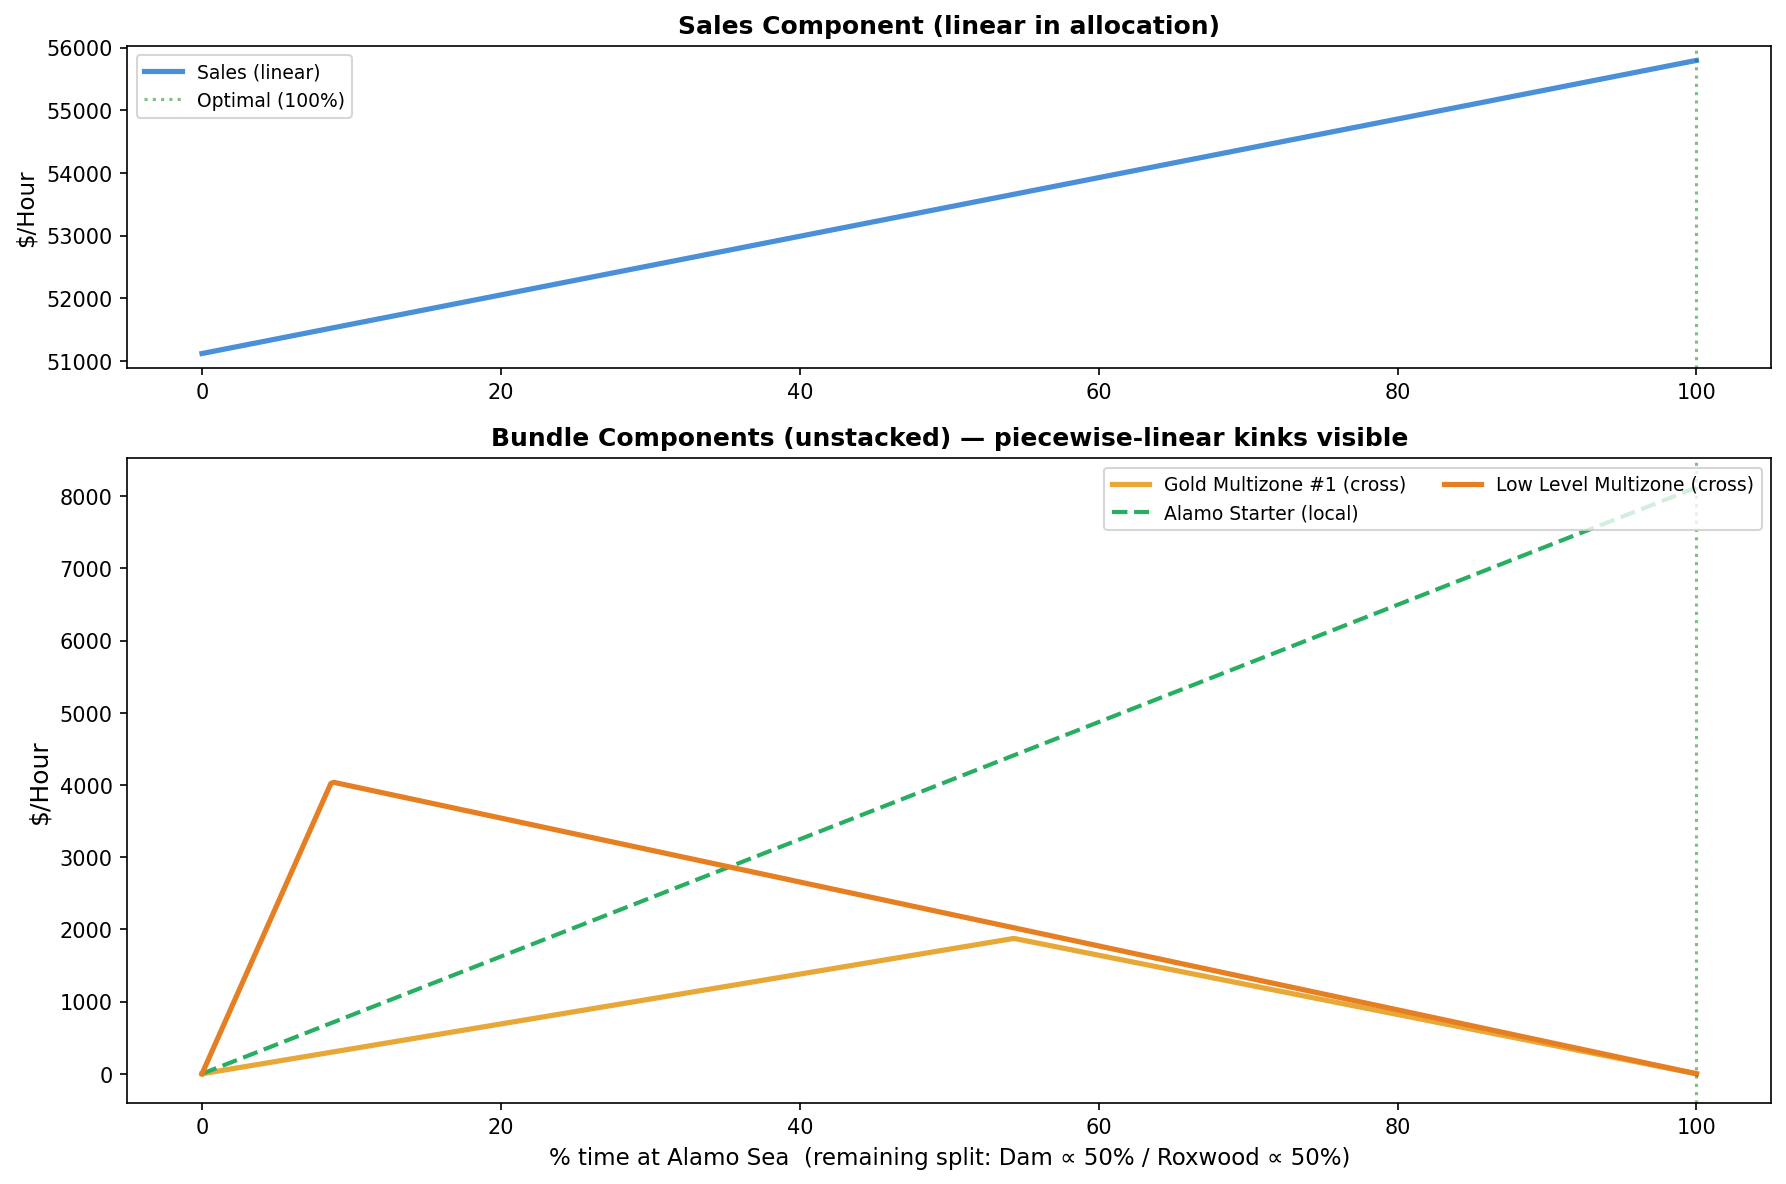
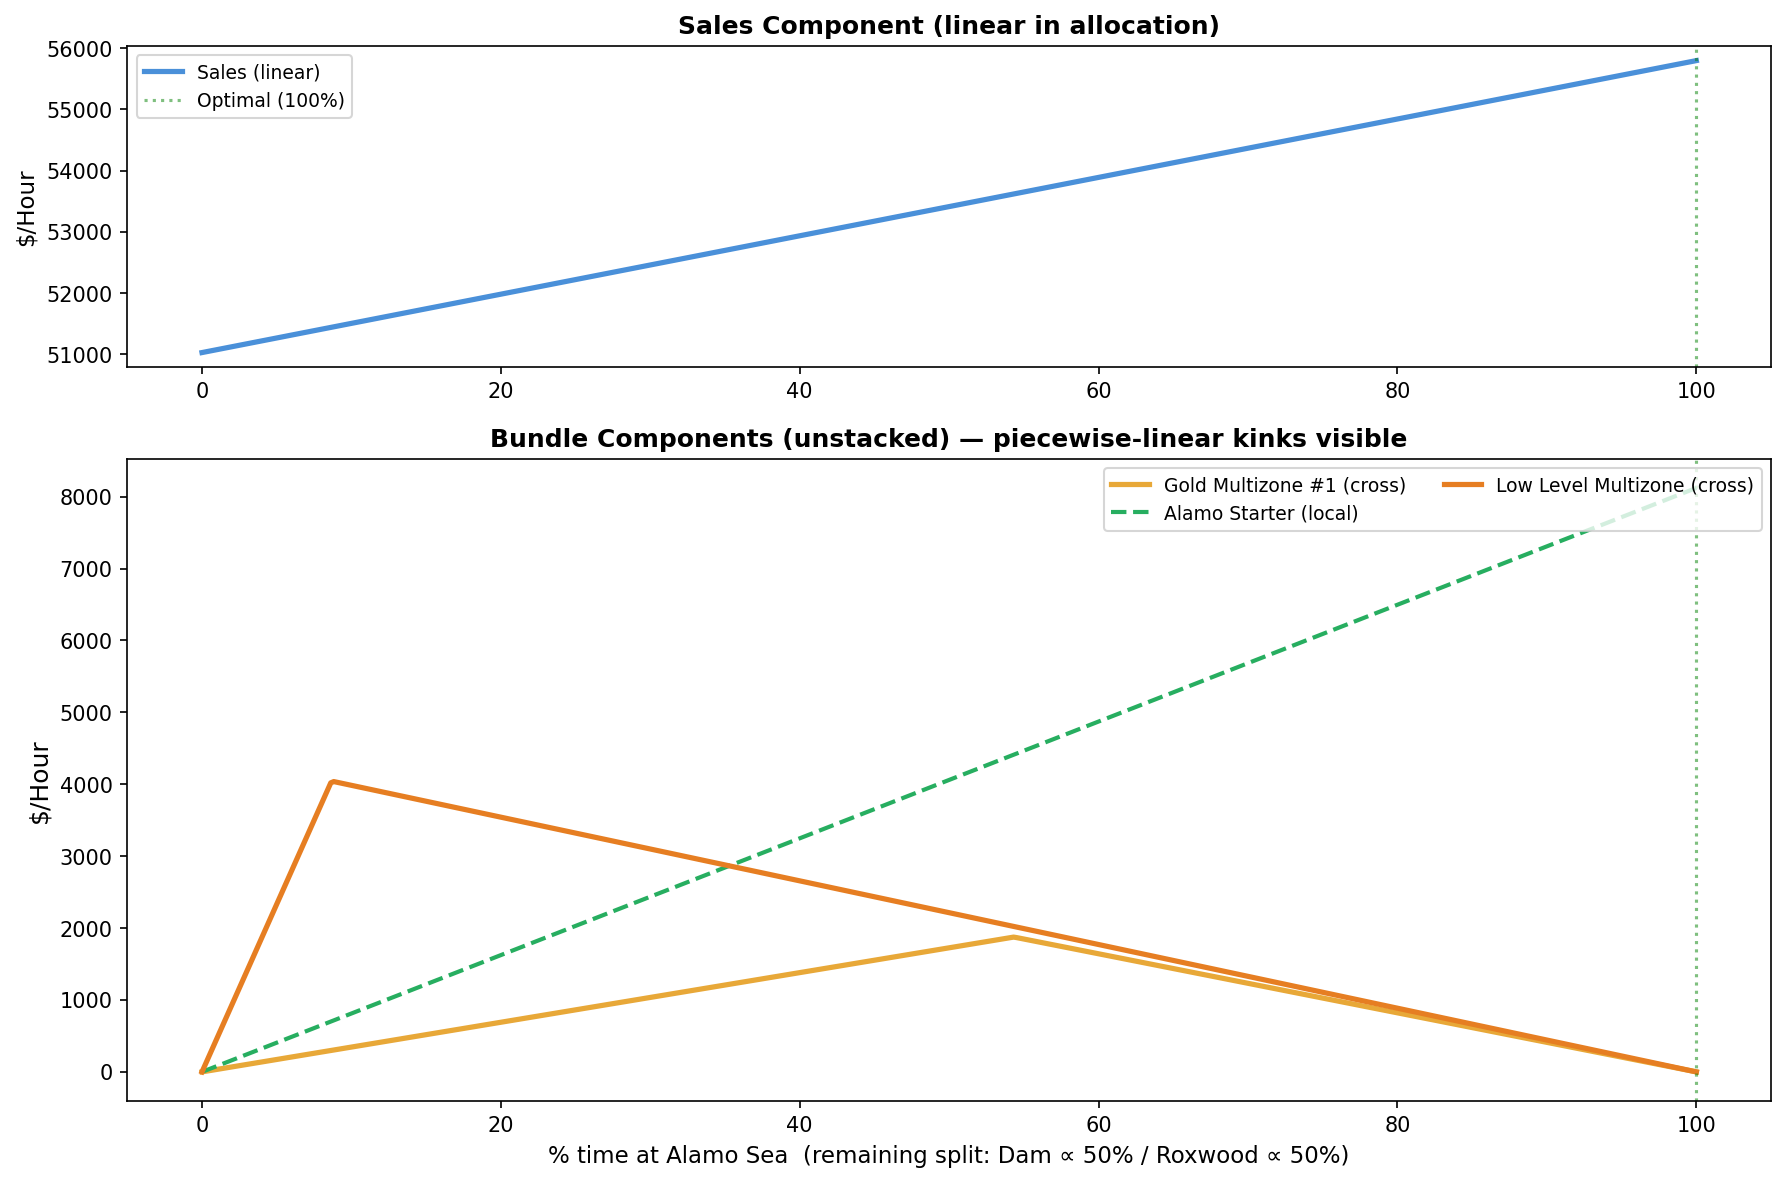
update

diff --git a/sales/update_time.py b/sales/update_time.py
@@ -22,8 +22,8 @@ class Session:
     finish: datetime
     fish_before: int
     fish_after: int
-    electronics_before: int
-    electronics_after: int
+    electronics_before: int | None = None
+    electronics_after: int | None = None
 
     @property
     def duration_seconds(self) -> float:
@@ -35,6 +35,8 @@ class Session:
 
     @property
     def electronics_gained(self) -> int:
+        if self.electronics_before is None or self.electronics_after is None:
+            return 0
         return self.electronics_after - self.electronics_before
 
     @property
@@ -55,56 +57,67 @@ def parse_time_log(path: Path) -> list[Session]:
     text = path.read_text(encoding="utf-8")
     sessions: list[Session] = []
     current_zone = ""
+    pending: dict[str, object] = {}
+
+    def flush() -> None:
+        if "fish_after" in pending:
+            sessions.append(Session(
+                zone=current_zone,
+                rod_level=pending["rod_level"],  # type: ignore[arg-type]
+                start=pending["start"],  # type: ignore[arg-type]
+                finish=pending["finish"],  # type: ignore[arg-type]
+                fish_before=pending["fish_before"],  # type: ignore[arg-type]
+                fish_after=pending["fish_after"],  # type: ignore[arg-type]
+                electronics_before=pending.get("electronics_before"),  # type: ignore[arg-type]
+                electronics_after=pending.get("electronics_after"),  # type: ignore[arg-type]
+            ))
 
     for line in text.splitlines():
         line = line.strip()
 
         zone_match = re.match(r"^#\s+(.+)$", line)
         if zone_match:
+            flush()
+            pending = {}
             current_zone = zone_match.group(1).strip()
             continue
 
         if line == "---":
+            flush()
+            pending = {}
             continue
 
         if line.startswith("Rod Level:"):
-            rod_level = int(line.split(":")[1].strip())
+            flush()
+            pending = {}
+            pending["rod_level"] = int(line.split(":")[1].strip())
             continue
 
         if line.startswith("Start:"):
-            start = datetime.strptime(line.split(":", 1)[1].strip(), DATE_FORMAT)
+            pending["start"] = datetime.strptime(line.split(":", 1)[1].strip(), DATE_FORMAT)
             continue
 
         if line.startswith("Finish:"):
-            finish = datetime.strptime(line.split(":", 1)[1].strip(), DATE_FORMAT)
+            pending["finish"] = datetime.strptime(line.split(":", 1)[1].strip(), DATE_FORMAT)
             continue
 
         if line.startswith("Fish before:"):
-            fish_before = int(line.split(":")[1].strip())
+            pending["fish_before"] = int(line.split(":")[1].strip())
             continue
 
         if line.startswith("Electronics before:"):
-            electronics_before = int(line.split(":")[1].strip())
+            pending["electronics_before"] = int(line.split(":")[1].strip())
             continue
 
         if line.startswith("Fish after:"):
-            fish_after = int(line.split(":")[1].strip())
+            pending["fish_after"] = int(line.split(":")[1].strip())
             continue
 
         if line.startswith("Electronics after:"):
-            electronics_after = int(line.split(":")[1].strip())
-            sessions.append(Session(
-                zone=current_zone,
-                rod_level=rod_level,
-                start=start,
-                finish=finish,
-                fish_before=fish_before,
-                fish_after=fish_after,
-                electronics_before=electronics_before,
-                electronics_after=electronics_after,
-            ))
+            pending["electronics_after"] = int(line.split(":")[1].strip())
             continue
 
+    flush()
     return sessions
 
 
@@ -162,6 +175,7 @@ def build_zone_average_section(
 
 def build_electronics_section(sessions: list[Session]) -> str:
     """Build global electronics log and average."""
+    sessions = [s for s in sessions if s.electronics_before is not None]
     log_rows: list[tuple[str, ...]] = []
     for session in sessions:
         electronics_gained = session.electronics_gained
@@ -221,7 +235,9 @@ def build_time_md(sessions: list[Session]) -> str:
     sections.append(average_table)
 
     # Electronics (global)
-    sections.append(build_electronics_section(sessions))
+    electronics_sessions = [s for s in sessions if s.electronics_before is not None]
+    if electronics_sessions:
+        sections.append(build_electronics_section(sessions))
 
     return "\n\n".join(sections) + "\n"
 

diff --git a/sales/comparison.md b/sales/comparison.md
@@ -9,7 +9,7 @@ Bite wait by location: Alamo Sea 80s, Dam 90s, Roxwood 100s. Reel-in by location
 | Location  | Fish Caught | $/Fish observed | $/Fish model | Available Bundles                                     | $/Fish (bundles) | $/Fish total (obs) | $/Fish total (model) | $/Hour (model) |
 |-----------|------------:|----------------:|-------------:|-------------------------------------------------------|-----------------:|-------------------:|---------------------:|---------------:|
 | Alamo Sea |         420 |          $1,472 |       $1,404 | Gold Multizone #1, Alamo Starter, Low Level Multizone |             $655 |             $2,127 |           **$2,059** |        $78,038 |
-| Dam       |         203 |          $1,670 |       $1,670 | Gold Multizone #1, Low Level Multizone                |             $393 |             $2,063 |           **$2,063** |        $64,583 |
+| Dam       |         335 |          $1,664 |       $1,664 | Gold Multizone #1, Low Level Multizone                |             $369 |             $2,033 |           **$2,033** |        $63,644 |
 | Roxwood   |         172 |          $1,804 |       $1,871 | Gold Multizone #1, Low Level Multizone                |             $205 |             $2,009 |           **$2,077** |        $57,504 |
 
 ## Optimal Allocation
@@ -18,13 +18,13 @@ Optimal time split across locations to maximize total $/hour (considering both s
 
 | Location     | Time % (obs) | $/Fish (obs) | $/Hour (obs) | Time % (model) | $/Fish (model) | $/Hour (model) |
 |--------------|-------------:|-------------:|-------------:|---------------:|---------------:|---------------:|
-| Alamo Sea    |         100% |       $1,472 |      $63,916 |            62% |         $1,404 |        $61,339 |
-| Dam          |           0% |       $1,670 |      $52,284 |            14% |         $1,670 |        $52,284 |
-| Roxwood      |           0% |       $1,804 |      $49,959 |            24% |         $1,871 |        $51,816 |
-| **Combined** |         100% |              |  **$63,916** |           100% |                |    **$61,881** |
+| Alamo Sea    |         100% |       $1,472 |      $63,916 |            60% |         $1,404 |        $61,339 |
+| Dam          |           0% |       $1,664 |      $52,096 |            15% |         $1,664 |        $52,096 |
+| Roxwood      |           0% |       $1,804 |      $49,959 |            25% |         $1,871 |        $51,816 |
+| **Combined** |         100% |              |  **$63,916** |           100% |                |    **$61,783** |
 
 **Observed:** splitting yields **$63,916**/hour vs **$63,916**/hour best solo (+$0/hour, +0.0%).
-**Model:** splitting yields **$61,881**/hour vs **$61,339**/hour best solo (+$543/hour, +0.9%).
+**Model:** splitting yields **$61,783**/hour vs **$61,339**/hour best solo (+$444/hour, +0.7%).
 
 ## Bundle Details
 
@@ -38,8 +38,8 @@ Optimal time split across locations to maximize total $/hour (considering both s
 
 | Bundle              | Fish                             |   Bonus | Avg Fish to Complete | Avg Time | Bonus/Fish | Catch Rates                                                                                                 |
 |---------------------|----------------------------------|--------:|---------------------:|---------:|-----------:|-------------------------------------------------------------------------------------------------------------|
-| Gold Multizone #1   | Bluefin Tuna, Musky, Dolphinfish | $12,750 |                  201 |  350 min |        $63 | Bluefin Tuna @ Alamo Sea: 3/420 (0.7%) \| Musky @ Dam: 11/203 (5.4%) \| Dolphinfish @ Roxwood: 4/172 (2.3%) |
-| Low Level Multizone | Scollop, Carp, Grenadier         | $11,000 |                   66 |  132 min |       $167 | Scollop @ Alamo Sea: 47/420 (11.2%) \| Carp @ Dam: 9/203 (4.4%) \| Grenadier @ Roxwood: 5/172 (2.9%)        |
+| Gold Multizone #1   | Bluefin Tuna, Musky, Dolphinfish | $12,750 |                  203 |  353 min |        $63 | Bluefin Tuna @ Alamo Sea: 3/420 (0.7%) \| Musky @ Dam: 17/335 (5.1%) \| Dolphinfish @ Roxwood: 4/172 (2.3%) |
+| Low Level Multizone | Scollop, Carp, Grenadier         | $11,000 |                   67 |  135 min |       $164 | Scollop @ Alamo Sea: 47/420 (11.2%) \| Carp @ Dam: 14/335 (4.2%) \| Grenadier @ Roxwood: 5/172 (2.9%)       |
 
 ## Drop Rate Analysis
 
@@ -50,9 +50,9 @@ Tier drop rates are consistent across locations, suggesting a fixed game mechani
 | Tier        | Alamo Sea |   Dam | Roxwood | Average |
 |-------------|----------:|------:|--------:|--------:|
 | ★★★★ purple |      0.2% |  0.0% |    0.0% |    0.1% |
-| ★★★         |      6.4% | 11.3% |    8.7% |    8.8% |
-| ★★          |     26.4% | 27.6% |   32.6% |   28.9% |
-| ★           |     65.5% | 61.1% |   58.7% |   61.8% |
+| ★★★         |      6.4% | 10.1% |    8.7% |    8.4% |
+| ★★          |     26.4% | 28.1% |   32.6% |   29.0% |
+| ★           |     65.5% | 61.8% |   58.7% |   62.0% |
 
 ### Within-Tier Weights
 
@@ -99,46 +99,46 @@ Model fit (25%/20%/20%/15%/10%/10%): χ² = 2.38, p = 0.795 — excellent
 Weight fit: χ² = 0.36, df = 6, p = 0.999 — excellent
 Model fit (20%/15%/15%/15%/10%/10%/10%/5%): χ² = 1.36, p = 0.968 — excellent
 
-#### Dam — ★★★ (3 fish, 23 observed)
+#### Dam — ★★★ (3 fish, 34 observed)
 
 | Fish          | Count | Observed % | Weight | Weight % | Model % | Model % (norm) | Residual |
 |---------------|------:|-----------:|-------:|---------:|--------:|---------------:|---------:|
-| Musky         |    11 |      47.8% |      7 |    41.2% |     55% |          55.0% |     -1.7 |
-| Pike          |     8 |      34.8% |      7 |    41.2% |     30% |          30.0% |     +1.1 |
-| Rainbow Trout |     4 |      17.4% |      3 |    17.6% |     15% |          15.0% |     +0.5 |
+| Musky         |    17 |      50.0% |      2 |    50.0% |     55% |          55.0% |     -1.7 |
+| Pike          |    10 |      29.4% |      1 |    25.0% |     30% |          30.0% |     -0.2 |
+| Rainbow Trout |     7 |      20.6% |      1 |    25.0% |     15% |          15.0% |     +1.9 |
 
-Weight fit: χ² = 0.48, df = 2, p = 0.788 — excellent
-Model fit (55%/30%/15%): χ² = 0.48, p = 0.787 — excellent
+Weight fit: χ² = 0.53, df = 2, p = 0.767 — excellent
+Model fit (55%/30%/15%): χ² = 0.87, p = 0.648 — excellent
 
-#### Dam — ★★ (6 fish, 56 observed)
+#### Dam — ★★ (6 fish, 94 observed)
 
 | Fish            | Count | Observed % | Weight | Weight % | Model % | Model % (norm) | Residual |
 |-----------------|------:|-----------:|-------:|---------:|--------:|---------------:|---------:|
-| Atlantic Salmon |    12 |      21.4% |      1 |    16.7% |     25% |          25.0% |     -2.0 |
-| Trevella        |    10 |      17.9% |      1 |    16.7% |     20% |          20.0% |     -1.2 |
-| Wahoo           |     9 |      16.1% |      1 |    16.7% |     20% |          20.0% |     -2.2 |
-| Sturgeon        |     9 |      16.1% |      1 |    16.7% |     15% |          15.0% |     +0.6 |
-| Carp            |     9 |      16.1% |      1 |    16.7% |     10% |          10.0% |     +3.4 |
-| Trumpetfish     |     7 |      12.5% |      1 |    16.7% |     10% |          10.0% |     +1.4 |
+| Atlantic Salmon |    23 |      24.5% |      8 |    22.2% |     25% |          25.0% |     -0.5 |
+| Trevella        |    19 |      20.2% |      8 |    22.2% |     20% |          20.0% |     +0.2 |
+| Trumpetfish     |    16 |      17.0% |      5 |    13.9% |     20% |          20.0% |     -2.8 |
+| Carp            |    14 |      14.9% |      5 |    13.9% |     15% |          15.0% |     -0.1 |
+| Wahoo           |    12 |      12.8% |      5 |    13.9% |     10% |          10.0% |     +2.6 |
+| Sturgeon        |    10 |      10.6% |      5 |    13.9% |     10% |          10.0% |     +0.6 |
 
-Weight fit: χ² = 1.43, df = 5, p = 0.921 — excellent
-Model fit (25%/20%/20%/15%/10%/10%): χ² = 3.30, p = 0.653 — excellent
+Weight fit: χ² = 1.92, df = 5, p = 0.861 — excellent
+Model fit (25%/20%/20%/15%/10%/10%): χ² = 1.19, p = 0.946 — excellent
 
-#### Dam — ★ (8 fish, 124 observed)
+#### Dam — ★ (8 fish, 207 observed)
 
 | Fish             | Count | Observed % | Weight | Weight % | Model % | Model % (norm) | Residual |
 |------------------|------:|-----------:|-------:|---------:|--------:|---------------:|---------:|
-| Murray Cod       |    32 |      25.8% |      7 |    25.9% |     20% |          20.0% |     +7.2 |
-| Banded Butterfly |    21 |      16.9% |      4 |    14.8% |     15% |          15.0% |     +2.4 |
-| Sand Whiting     |    19 |      15.3% |      4 |    14.8% |     15% |          15.0% |     +0.4 |
-| Triggerfish      |    14 |      11.3% |      4 |    14.8% |     15% |          15.0% |     -4.6 |
-| Cod              |    11 |       8.9% |      2 |     7.4% |     10% |          10.0% |     -1.4 |
-| Black Bream      |    10 |       8.1% |      2 |     7.4% |     10% |          10.0% |     -2.4 |
-| Escolar          |    10 |       8.1% |      2 |     7.4% |     10% |          10.0% |     -2.4 |
-| Brook Trout      |     7 |       5.6% |      2 |     7.4% |      5% |           5.0% |     +0.8 |
+| Murray Cod       |    50 |      24.2% |      5 |    23.8% |     20% |          20.0% |     +8.6 |
+| Banded Butterfly |    35 |      16.9% |      3 |    14.3% |     15% |          15.0% |     +3.9 |
+| Triggerfish      |    28 |      13.5% |      3 |    14.3% |     15% |          15.0% |     -3.1 |
+| Sand Whiting     |    26 |      12.6% |      3 |    14.3% |     15% |          15.0% |     -5.1 |
+| Cod              |    23 |      11.1% |      2 |     9.5% |     10% |          10.0% |     +2.3 |
+| Escolar          |    19 |       9.2% |      2 |     9.5% |     10% |          10.0% |     -1.7 |
+| Brook Trout      |    16 |       7.7% |      2 |     9.5% |     10% |          10.0% |     -4.7 |
+| Black Bream      |    10 |       4.8% |      1 |     4.8% |      5% |           5.0% |     -0.3 |
 
-Weight fit: χ² = 2.46, df = 7, p = 0.930 — excellent
-Model fit (20%/15%/15%/15%/10%/10%/10%/5%): χ² = 4.74, p = 0.692 — excellent
+Weight fit: χ² = 2.80, df = 7, p = 0.903 — excellent
+Model fit (20%/15%/15%/15%/10%/10%/10%/5%): χ² = 4.88, p = 0.674 — excellent
 
 #### Roxwood — ★★★ (3 fish, 15 observed)
 

diff --git a/sales/dam.md b/sales/dam.md
@@ -4,21 +4,21 @@
 
 | Fish             |   Count |        % | Stars | Bundles             |
 |------------------|--------:|---------:|-------|---------------------|
-| Musky            |      11 |     5.4% | ★★★   | Gold Multizone #1   |
-| Pike             |       8 |     3.9% | ★★★   |                     |
-| Rainbow Trout    |       4 |     2.0% | ★★★   |                     |
-| Atlantic Salmon  |      12 |     5.9% | ★★    |                     |
-| Trevella         |      10 |     4.9% | ★★    | Silver Multizone #2 |
-| Wahoo            |       9 |     4.4% | ★★    |                     |
-| Sturgeon         |       9 |     4.4% | ★★    |                     |
-| Carp             |       9 |     4.4% | ★★    | Low Level Multizone |
-| Trumpetfish      |       7 |     3.4% | ★★    |                     |
-| Murray Cod       |      32 |    15.8% | ★     |                     |
-| Banded Butterfly |      21 |    10.3% | ★     |                     |
-| Sand Whiting     |      19 |     9.4% | ★     |                     |
-| Triggerfish      |      14 |     6.9% | ★     |                     |
-| Cod              |      11 |     5.4% | ★     |                     |
-| Black Bream      |      10 |     4.9% | ★     |                     |
-| Escolar          |      10 |     4.9% | ★     |                     |
-| Brook Trout      |       7 |     3.4% | ★     | Bronze Multizone #2 |
-| **Total**        | **203** | **100%** |       |                     |
+| Musky            |      17 |     5.1% | ★★★   | Gold Multizone #1   |
+| Pike             |      10 |     3.0% | ★★★   |                     |
+| Rainbow Trout    |       7 |     2.1% | ★★★   |                     |
+| Atlantic Salmon  |      23 |     6.9% | ★★    |                     |
+| Trevella         |      19 |     5.7% | ★★    | Silver Multizone #2 |
+| Trumpetfish      |      16 |     4.8% | ★★    |                     |
+| Carp             |      14 |     4.2% | ★★    | Low Level Multizone |
+| Wahoo            |      12 |     3.6% | ★★    |                     |
+| Sturgeon         |      10 |     3.0% | ★★    |                     |
+| Murray Cod       |      50 |    14.9% | ★     |                     |
+| Banded Butterfly |      35 |    10.4% | ★     |                     |
+| Triggerfish      |      28 |     8.4% | ★     |                     |
+| Sand Whiting     |      26 |     7.8% | ★     |                     |
+| Cod              |      23 |     6.9% | ★     |                     |
+| Escolar          |      19 |     5.7% | ★     |                     |
+| Brook Trout      |      16 |     4.8% | ★     | Bronze Multizone #2 |
+| Black Bream      |      10 |     3.0% | ★     |                     |
+| **Total**        | **335** | **100%** |       |                     |

diff --git a/sales/time.md b/sales/time.md
@@ -7,12 +7,13 @@
 | Finished            | Rod | Fish | Duration | s/fish |
 |---------------------|----:|-----:|---------:|-------:|
 | 05 Apr 2026 03:51PM |   3 |   17 |  32m 49s | 115.8s |
+| 05 Apr 2026 07:18PM |   3 |   98 | 191m 55s | 117.5s |
 
 ## Average s/fish by Zone and Rod Level
 
 | Zone | Rod | Sessions | Fish | Avg s/fish |
 |------|----:|---------:|-----:|-----------:|
-| Dam  |   3 |        1 |   17 |     115.8s |
+| Dam  |   3 |        2 |  115 |     117.3s |
 
 ## Electronics
 

diff --git a/sales/dam-log.md b/sales/dam-log.md
@@ -52,3 +52,19 @@ Black Bream	3
 Trevella	4
 Trumpetfish	2
 --sold
+Brook Trout	9
+Escolar	9
+Trevella	9
+Atlantic Salmon	11
+Triggerfish	14
+Cod	12
+Carp	5
+Sturgeon	1
+Banded Butterfly	14
+Murray Cod	18
+Trumpetfish	9
+Rainbow Trout	3
+Wahoo	3
+Sand Whiting	7
+Musky	6
+Pike	2

diff --git a/sales/time-log.md b/sales/time-log.md
@@ -7,3 +7,11 @@ Fish before: 4
 Electronics before: 15
 Fish after: 21
 Electronics after: 59
+
+---
+
+Rod Level: 3
+Start: 5 Apr 2026 @ 4:07:02pm
+Finish: 5 Apr 2026 @ 7:18:57pm
+Fish before: 0
+Fish after: 98
